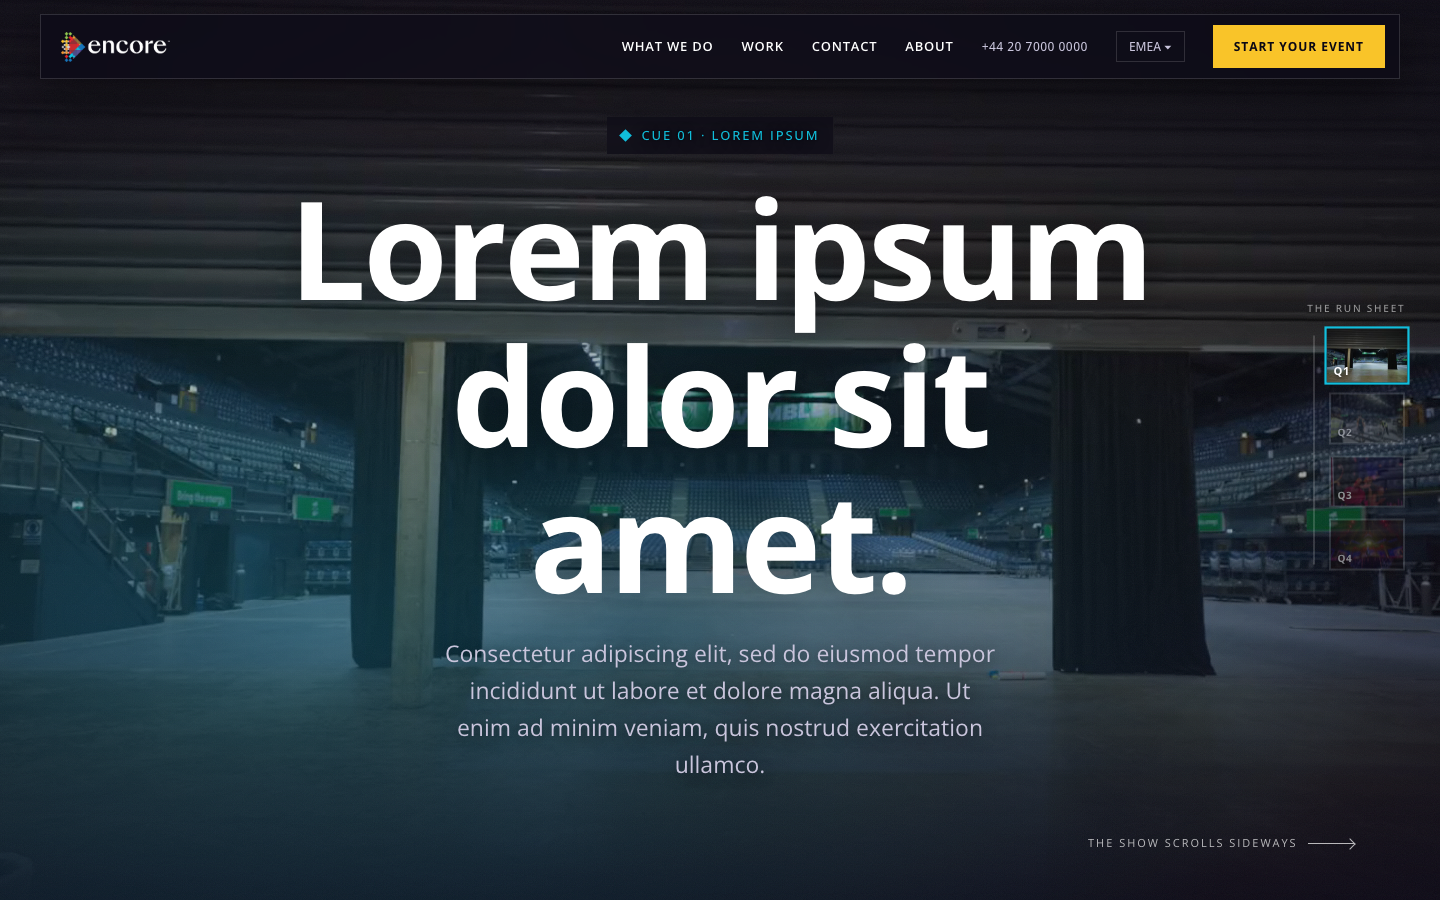
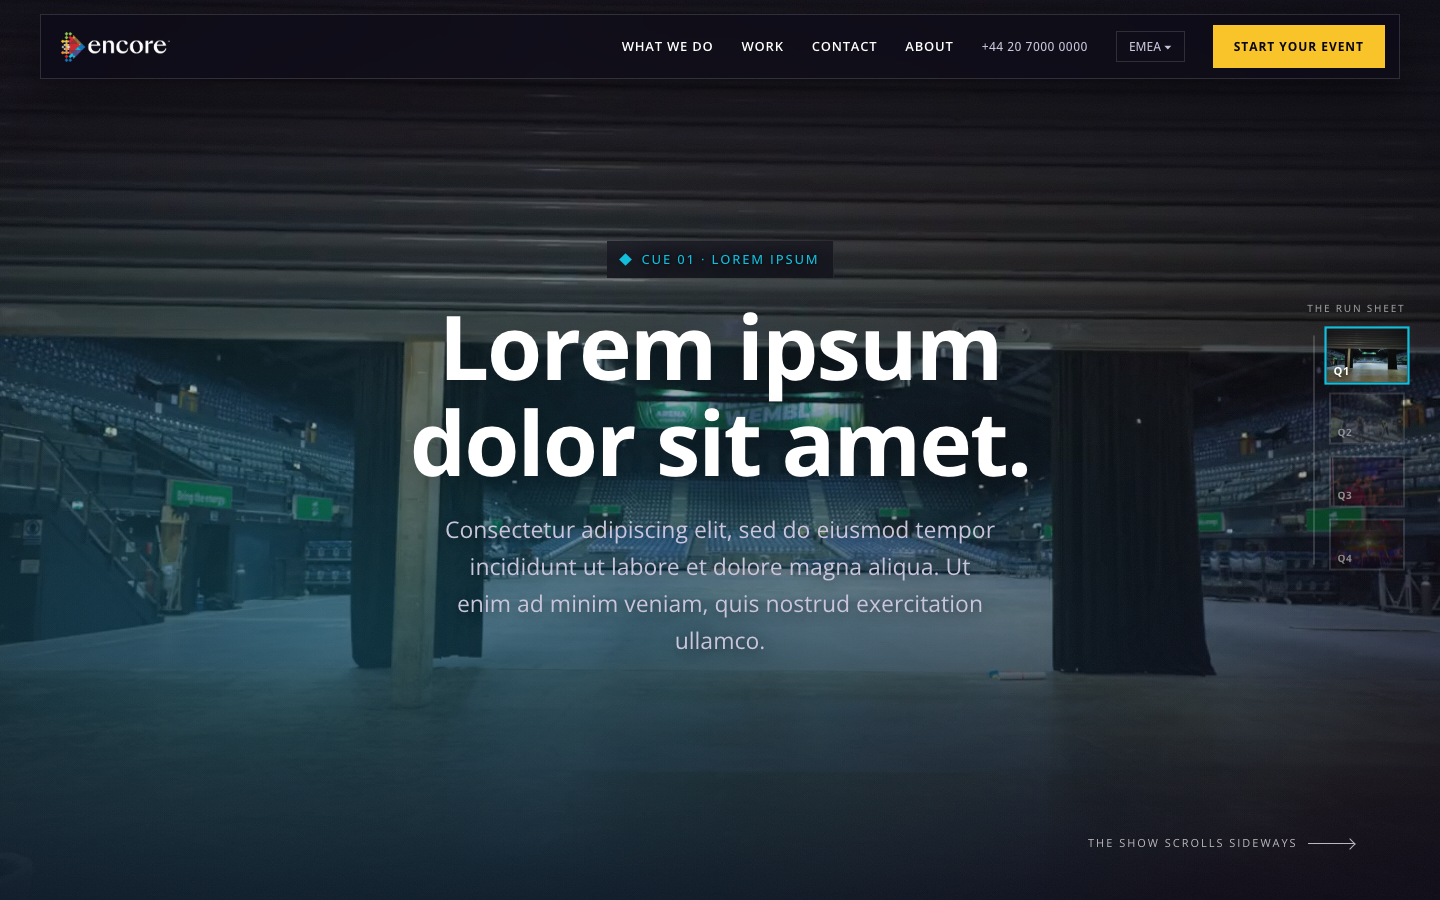
Fix C-v2 headline scale for Open Sans
Open Sans is much wider than the condensed Big Shoulders it replaced, so
the pinned chapter panels were overflowing and colliding with the run-sheet
rail. Reduce the panel-specific headline overrides (h1 150->96px, h2
120->74px, mobile 72->54px) and the finale heading, and rebuild the C-v2
thumbnail to match.

diff --git a/mockups/homepage-option-c-v2.html b/mockups/homepage-option-c-v2.html
@@ -194,8 +194,8 @@
   .ch-spectrum .cue::before{background:var(--spectrum);}
   .panel .cue{background:rgba(10,7,20,.55); padding:8px 14px; -webkit-backdrop-filter:blur(8px); backdrop-filter:blur(8px);}
   .panel h2,.panel h1{margin:20px 0 0; text-shadow:0 6px 40px rgba(0,0,0,.45);}
-  .panel h1{font-size:clamp(52px,9.5vw,150px);}
-  .panel h2{font-size:clamp(44px,8vw,120px);}
+  .panel h1{font-size:clamp(40px,6.2vw,96px);}
+  .panel h2{font-size:clamp(34px,5vw,74px);}
   .panel .pl{font-size:clamp(17px,1.8vw,23px); color:var(--dim); max-width:42ch; margin:22px 0 0; text-shadow:0 2px 14px rgba(0,0,0,.55);}
   .panel.title{align-items:center; text-align:center;}
   .panel.title .c{padding:0 clamp(22px,7vw,120px); max-width:1150px; margin:0 auto;}
@@ -418,7 +418,7 @@
       scroll-snap-align:start; scroll-snap-stop:always;}
   }
   @media(max-width:560px){
-    .panel h2,.panel h1{font-size:clamp(44px,13vw,72px) !important;}
+    .panel h2,.panel h1{font-size:clamp(30px,8.7vw,54px) !important;}
   }
 </style>
 </head>
@@ -685,7 +685,7 @@
       <div class="leadwrap">
         <div class="reveal">
           <div class="cue" style="--gel:var(--amber);">Standing by</div>
-          <h2 style="margin:18px 0 14px; font-size:clamp(44px,6vw,92px);">Let's build<br>your show.</h2>
+          <h2 style="margin:18px 0 14px; font-size:clamp(36px,5vw,72px);">Let's build<br>your show.</h2>
           <p class="lead">Tell us what you're planning — a date, a room, half an idea. A producer picks it up from there.</p>
           <div class="trust">
             <div class="row"><b>2,200+</b><span>Venues with Encore on-site</span></div>
